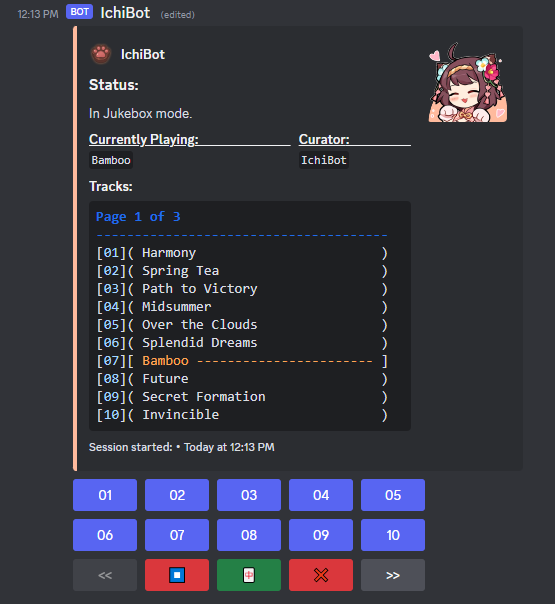
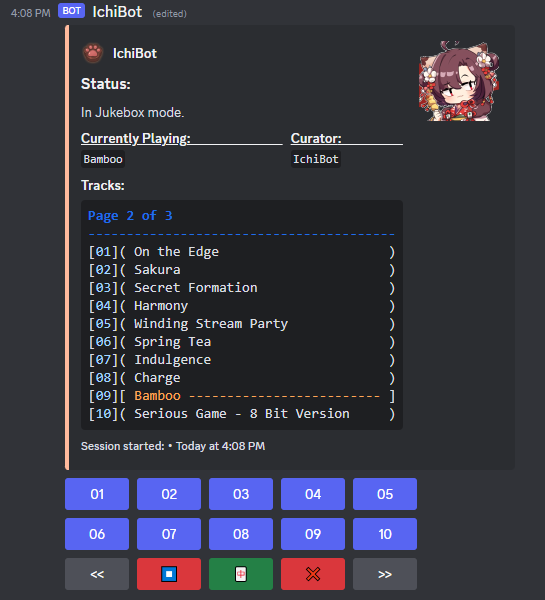
more fixes

diff --git a/lib/sqlitehandler.js b/lib/sqlitehandler.js
@@ -149,7 +149,7 @@ module.exports = {
                 resolve(row.enable_default === 1);
             });
         });
-        if (defaultEnabled) {
+        if (defaultEnabled && type != 'r') {
             let param = type ? ` WHERE (type = ${numType})` : '';
             defaultList = ` UNION SELECT track_name, track_url, user_id, type FROM default_album${param}`;
         }
@@ -157,7 +157,9 @@ module.exports = {
         // Filters database by parameters, then return results
         return new Promise((resolve, reject) => {
             if (!userId) {
-                db.all(`SELECT track_name, track_url, user_id, type FROM playlist WHERE (server_id = ?)${defaultList}`, [serverId], (err, rows) => {
+                let t = '';
+                if (numType != -1) t = ` AND type = ${numType}`;
+                db.all(`SELECT track_name, track_url, user_id, type FROM playlist WHERE (server_id = ?${t})${defaultList}`, [serverId], (err, rows) => {
                     if (err) reject(err);
                     resolve(rows);
                 });
@@ -167,9 +169,9 @@ module.exports = {
                 resolve(rows);
             });
         }).then((rows) => {
-            if (rows.length <= 0 && defaultEnabled) {
+            if (rows.length <= 0 && defaultEnabled && numType != 0) {
                 return new Promise((resolve, reject) => {
-                    if (!type) {
+                    if (numType === -1) {
                         db.all(`SELECT track_name, track_url, user_id, type FROM default_album`, [], (err, rows) => {
                             if (err) reject([]);
                             resolve(rows);

diff --git a/lib/musicplayer.js b/lib/musicplayer.js
@@ -147,16 +147,16 @@ class serverPlayer {
 	// Generates a code block of the server's tracks for Jukebox mode
 	generateJukeboxPage() {
 		let tenTracks = '';
-		let pageHeader = `md\nPage ${this.jukebox.page + 1} of ${Math.ceil(this.jukebox.album.length / 10)}\n--------------------------------------\n`;
+		let pageHeader = `md\nPage ${this.jukebox.page + 1} of ${Math.ceil(this.jukebox.album.length / 10)}\n----------------------------------------\n`;
 		for (let i = 0; i < 10; i++) {
 			let j = i + (this.jukebox.page * 10);
 			tenTracks = tenTracks + `[${i < 9 ? '0' : ''}${i + 1}]`;
 			if (this.jukebox.album[j]) {
 				let trackName = this.jukebox.album[j].track_name;
-				if (trackName.length > 30) trackName = trackName.substring(0, 31).trim() + '…';
+				if (trackName.length > 32) trackName = trackName.substring(0, 31).trim() + '…';
 				else {
-					if (trackName.length < 30) trackName = trackName + ' ';
-					while (trackName.length < 30) trackName = trackName + (this.jukebox.select === j ? '-' : ' ');
+					if (trackName.length < 32) trackName = trackName + ' ';
+					while (trackName.length < 32) trackName = trackName + (this.jukebox.select === j ? '-' : ' ');
 				}
 				tenTracks = tenTracks + (this.jukebox.select === j ? `[ ${trackName} ]` : `( ${trackName} )`);
 			}

diff --git a/index.js b/index.js
@@ -28,6 +28,10 @@ const setup = 'I have not been properly set up in this server. Use `-i`|`-init` 
 // We use 'c' for the event parameter to keep it separate from the already defined 'client'
 client.once(Events.ClientReady, c => {
 	console.log(`Ready! Logged in as ${c.user.tag}`);
+	client.user.setActivity({
+		type: ActivityType.Listening,
+		name: '-help ~nya!'
+	});
 });
 
 // Log in to Discord with your client's token
